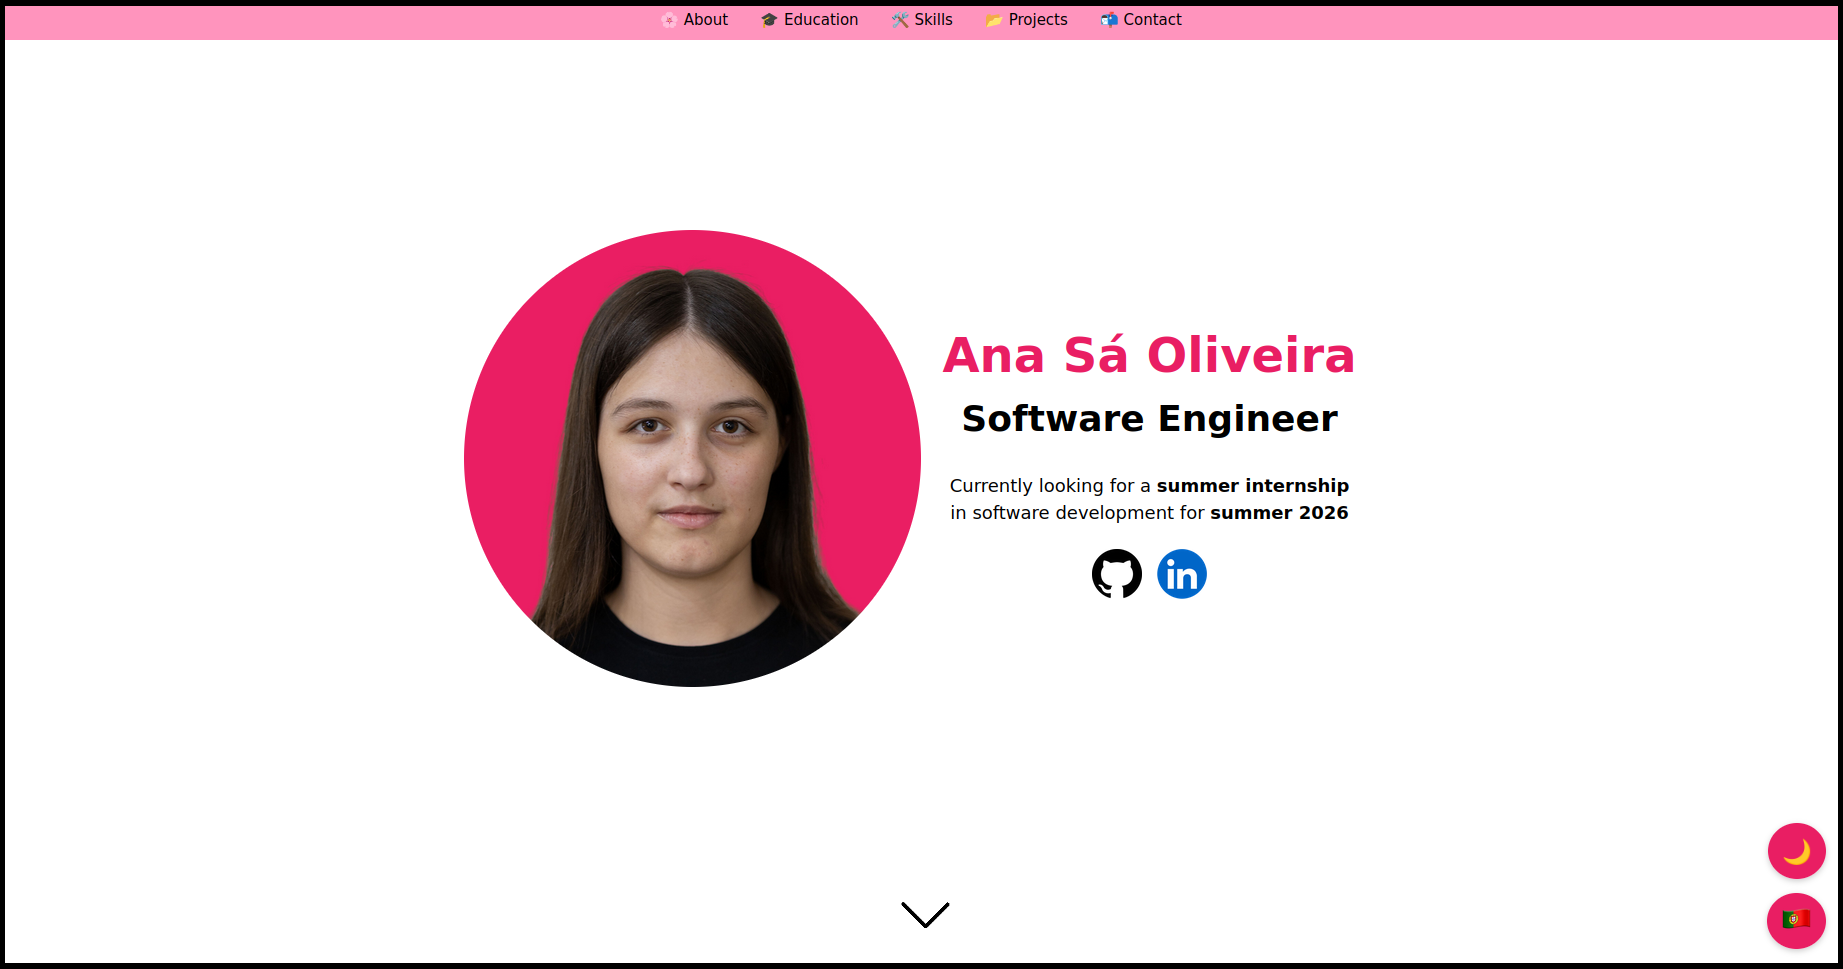
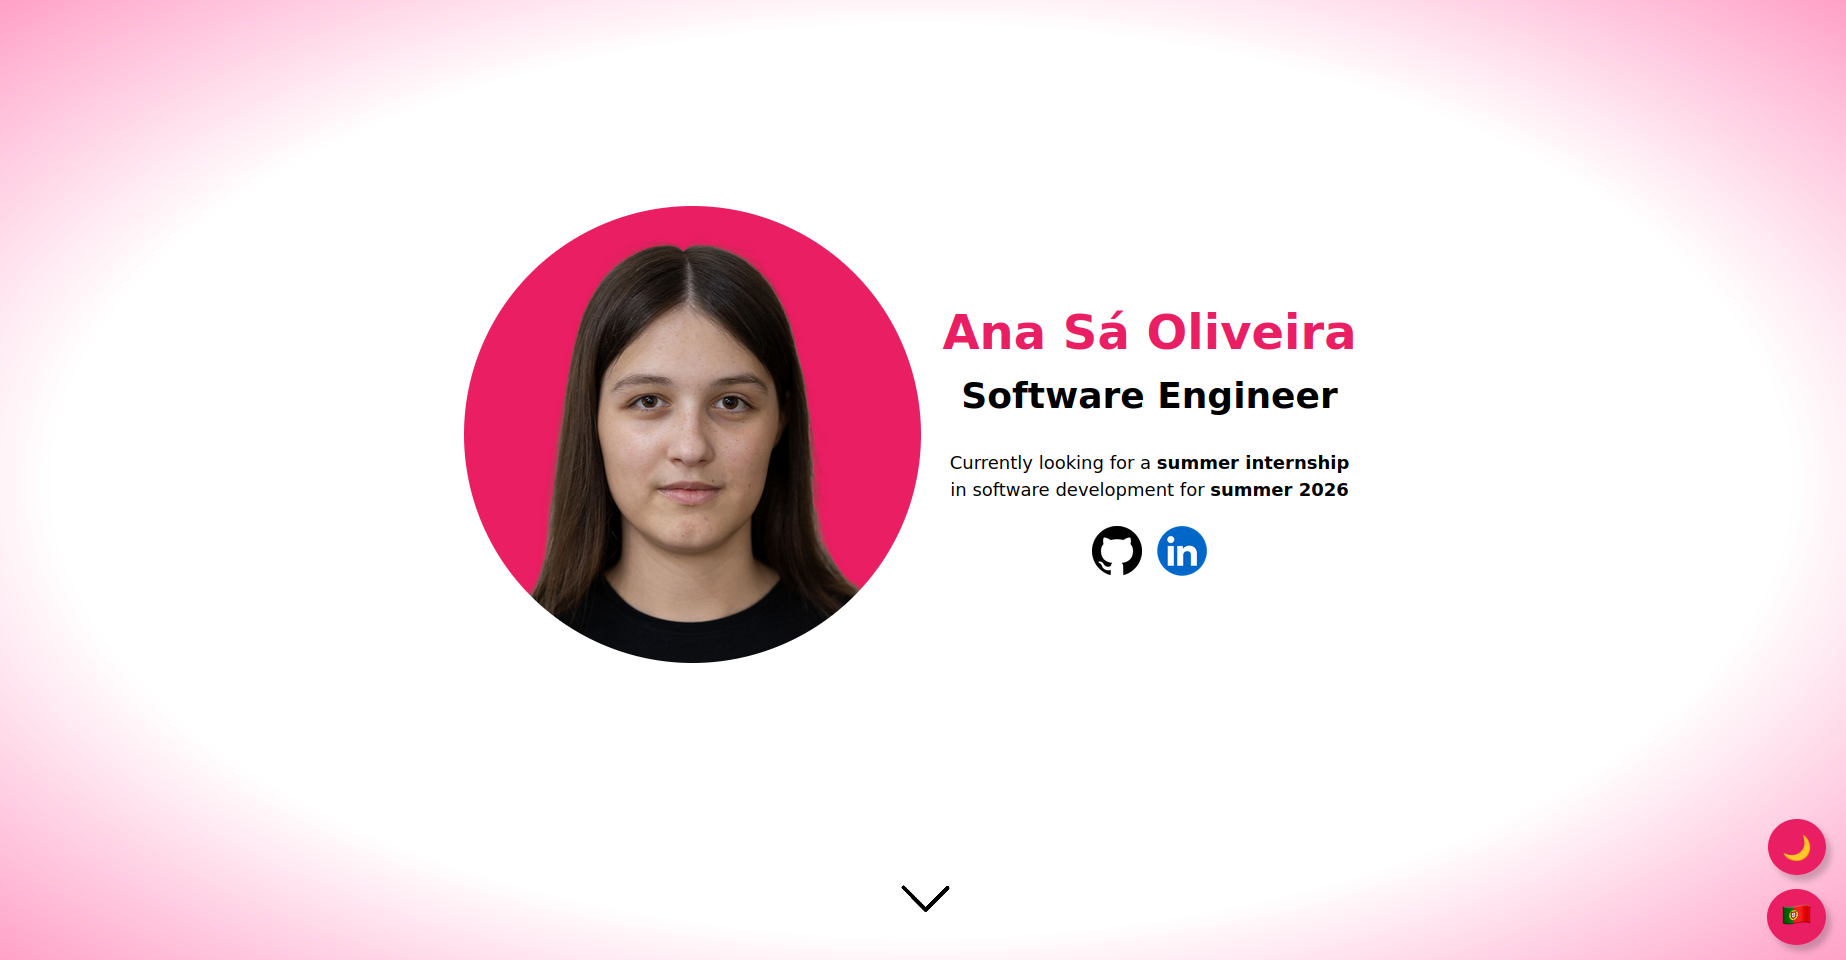
Improve website aesthetics

Changed region(s): [[0.0, 0.0, 1.0, 1.0], [0.2474, 0.2188, 0.7423, 0.7188], [0.2474, 0.3125, 0.2784, 0.4062]]

diff --git a/index.html b/index.html
@@ -74,7 +74,7 @@
                 font-size: 24px;
                 background-color: #e91e63;
                 color: black;
-                box-shadow: 0 2px 6px rgba(0,0,0,0.2);
+                box-shadow: 5px 6px 6px rgba(0,0,0,0.2);
                 cursor: pointer;
                 z-index: 9999;
             ">
@@ -91,7 +91,7 @@
                 font-size: 24px;
                 background-color: #e91e63;
                 color: black;
-                box-shadow: 0 2px 6px rgba(0,0,0,0.2);
+                box-shadow: 5px 6px 6px rgba(0,0,0,0.2);
                 cursor: pointer;
                 z-index: 9999;
             ">
@@ -150,14 +150,16 @@
 
         </script>
         <!-- Home -->
-        <div id="home" style="background-color: white; min-height: 100vh;display: flex; flex-direction: column;">
-            <nav class="w3-bar w3-hide-small" style='display: flex; justify-content: center; background-color: #ff94bd;'>
-                <a href="#about" data-pt="🌸 Sobre" class="w3-bar-item w3-hover-text-white" style="text-decoration: none;">🌸 About</a>
-                <a href="#education" data-pt="🎓 Educação" class="w3-bar-item w3-hover-text-white" style="text-decoration: none;">🎓 Education</a>
-                <a href="#skills" data-pt="🛠 Habilidades" class="w3-bar-item w3-hover-text-white" style="text-decoration: none;">🛠 Skills</a>
-                <a href="#projects" data-pt="📂 Projetos" class="w3-bar-item w3-hover-text-white" style="text-decoration: none;">📂 Projects</a>
-                <a href="#contact" data-pt="📬 Contactos" class="w3-bar-item w3-hover-text-white" style="text-decoration: none;">📬 Contact</a>
+        <div id="home" style="background-image: radial-gradient(white, white,white, rgb(255, 159, 198)); min-height: 100vh;display: flex; flex-direction: column;">
+            <!--
+            <nav class="w3-bar w3-hide-small" style='display: flex; justify-content: center; background-color: transparent;'>
+                <a href="#about" data-pt="🌸 Sobre" class="w3-bar-item w3-hover-text-pink" style="text-decoration: none;">🌸 About</a>
+                <a href="#education" data-pt="🎓 Educação" class="w3-bar-item w3-hover-text-pink" style="text-decoration: none;">🎓 Education</a>
+                <a href="#skills" data-pt="🛠 Habilidades" class="w3-bar-item w3-hover-text-pink" style="text-decoration: none;">🛠 Skills</a>
+                <a href="#projects" data-pt="📂 Projetos" class="w3-bar-item w3-hover-text-pink" style="text-decoration: none;">📂 Projects</a>
+                <a href="#contact" data-pt="📬 Contactos" class="w3-bar-item w3-hover-text-pink" style="text-decoration: none;">📬 Contact</a>
             </nav>
+            -->
             <style>
                 .big {
                     display: block;
@@ -639,7 +641,7 @@
                                             </a>
                                         </h2>
                                         <h2>Crossy Road 🐔</h2>
-                                        <h4 data-pt="Projeto universitário 🎓, Jogo 🎮, Haskell 💻">College Project 🎓, Game 🎮, Haskell 💻</h4>
+                                        <h4 data-pt="Projeto universitário 🎓, Jogo 🎮, Haskell 💻">College Project 🎓, Game 🎮,<br>Haskell 💻</h4>
                                         <h4 data-pt="Nota final: 16/20 ✅">Final grade: 16/20 ✅</h4>
                                     </div>
                                 </div> 
@@ -815,14 +817,6 @@
                             <br>
                             <h3><img loading="lazy" src="assets/icons/contact-form.png" style="width:50px;" alt="Contact form ícone"><b data-pt=" Formulário de Contacto"> Contact Form</b></h3>
                             <style>
-                                .w3-hover-custom1:hover {
-                                background-color: #ffb2b2 !important;
-                                color: black !important;
-                            }
-                            .dark-mode .w3-hover-custom1:hover {
-                                background-color: #880732 !important;
-                                color: white !important;
-                            }
                             .dark-mode input {
                                 color: white !important;
                                 border: 1px solid white !important;
@@ -996,7 +990,7 @@
             </div>
         </div>
         <!-- Footer -->
-        <footer style='background-color: #ff94bd;'>
+        <footer style='background-color: transparent;'>
             <address class="w3-bar" style='display: flex; justify-content: center;'>
                 <div class="w3-bar-item">
                     © <span id="year">2025</span> Ana Sá Oliveira

diff --git a/404.html b/404.html
@@ -59,7 +59,7 @@
                 font-size: 24px;
                 background-color: #e91e63;
                 color: black;
-                box-shadow: 0 2px 6px rgba(0,0,0,0.2);
+                box-shadow: 5px 6px 6px rgba(0,0,0,0.2);
                 cursor: pointer;
                 z-index: 9999;
             ">
@@ -76,7 +76,7 @@
                 font-size: 24px;
                 background-color: #e91e63;
                 color: black;
-                box-shadow: 0 2px 6px rgba(0,0,0,0.2);
+                box-shadow: 5px 6px 6px rgba(0,0,0,0.2);
                 cursor: pointer;
                 z-index: 9999;
             ">
@@ -119,25 +119,36 @@
 
         </script>
         <!-- Home -->
-        <div id="home" style="background-color: #fee9f0; min-height: 100vh;display: flex; flex-direction: column;">
-            <nav class="w3-bar w3-hide-small" style='display: flex; justify-content: center; background-color: #ff94bd;'>
-                <a href="/index.html" data-pt="Voltar ao portefólio da Ana ♥" class="w3-bar-item w3-hover-text-white" style="text-decoration: none;">Go back to Ana's portfolio ♥</a>
+        <div id="home" style="background-image: radial-gradient(white, white,white, rgb(255, 159, 198));min-height: 100vh;display: flex; flex-direction: column;">
+            <!--
+            <nav class="w3-bar w3-hide-small" style='display: flex; justify-content: center; background-color: transparent;'>
+                <a href="/index.html" data-pt="Voltar ao portefólio da Ana ♥" class="w3-bar-item w3-hover-text-pink" style="text-decoration: none;">Go back to Ana's portfolio ♥</a>
             </nav>
-            
+            -->
             <div style="flex: 1; display: flex; align-items: center; justify-content: center; text-align: center;">
                 <div class="w3-container w3-content w3-margin">
-                    <div class="w3-xxlarge">
+                    <div class="w3-xxlarge w3-hide-small">
                         <b>
                             <div class="w3-text-pink">
-                                4⃣0⃣4⃣
-                                <br>
+                                404
                                 <span data-pt="Página não encontrada">Page not found</span>
-                                <br>
-                                ☹
                                 <br>
                                 <br>
                             </div>
-                            <a href="/index.html" data-pt="Voltar ao portefólio da Ana ♥" class="w3-button w3-pink w3-hover-pink w3-round-large" style="white-space: normal; text-align: center;">
+                            <a href="/index.html" data-pt="Voltar ao portefólio da Ana ♥" class="w3-button w3-hover-custom1 w3-round-large" style="background-color: #ffb2b2; white-space: normal; text-align: center;">
+                                Go back to Ana's portfolio ♥
+                            </a>
+                        </b>
+                    </div>
+                    <div class="w3-xlarge w3-hide-medium w3-hide-large">
+                        <b>
+                            <div class="w3-text-pink">
+                                404
+                                <span data-pt="Página não encontrada">Page not found</span>
+                                <br>
+                                <br>
+                            </div>
+                            <a href="/index.html" data-pt="Voltar ao portefólio da Ana ♥" class="w3-button w3-hover-custom1 w3-round-large" style="background-color: #ffb2b2; white-space: normal; text-align: center;">
                                 Go back to Ana's portfolio ♥
                             </a>
                         </b>
@@ -145,13 +156,15 @@
                 </div>
             </div>
             <!-- Footer -->
-            <footer style='background-color: #ff94bd;'>
+            <!--
+            <footer style='background-color: transparent;'>
                 <address class="w3-bar" style='display: flex; justify-content: center;'>
                     <div class="w3-bar-item">
                         © <span id="year">2025</span> Ana Sá Oliveira
                     </div>
                 </address>
             </footer>
+            -->
             <script>
                 document.getElementById("year").textContent = new Date().getFullYear();
             </script>

diff --git a/assets/css/style.css b/assets/css/style.css
@@ -294,6 +294,19 @@ hr{border:0;border-top:1px solid #eee;margin:20px 0}
     background-color: #880732 !important;
   }
 
+  .w3-hover-custom1:hover {
+      background-color: #ffb2b2 !important;
+      color: black !important;
+  }
+  .dark-mode .w3-hover-custom1:hover, .dark-mode .w3-hover-custom1 {
+      background-color: #880732 !important;
+      color: white !important;
+  }
+
+  .dark-mode #home {
+      background-image: radial-gradient(black,black,black,rgb(85, 0, 34)) !important;
+  }
+
   /*
   .final::before {
     content: "──────────────────୨ৎ──────────────────";
